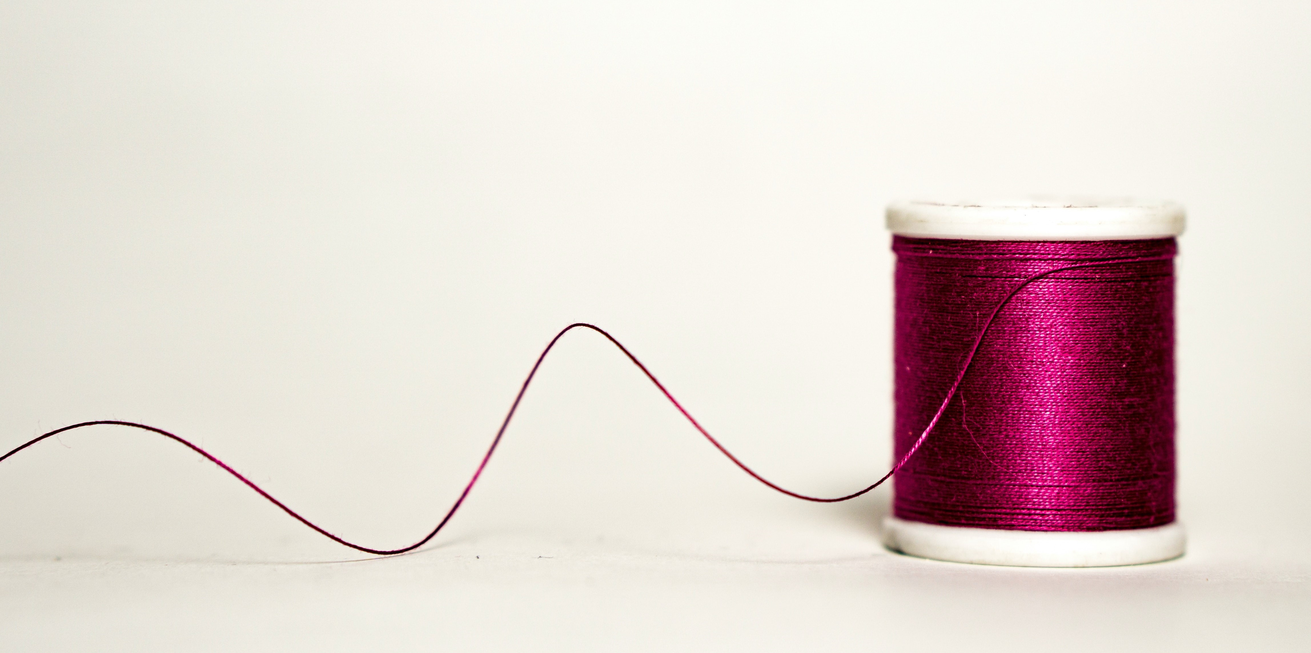
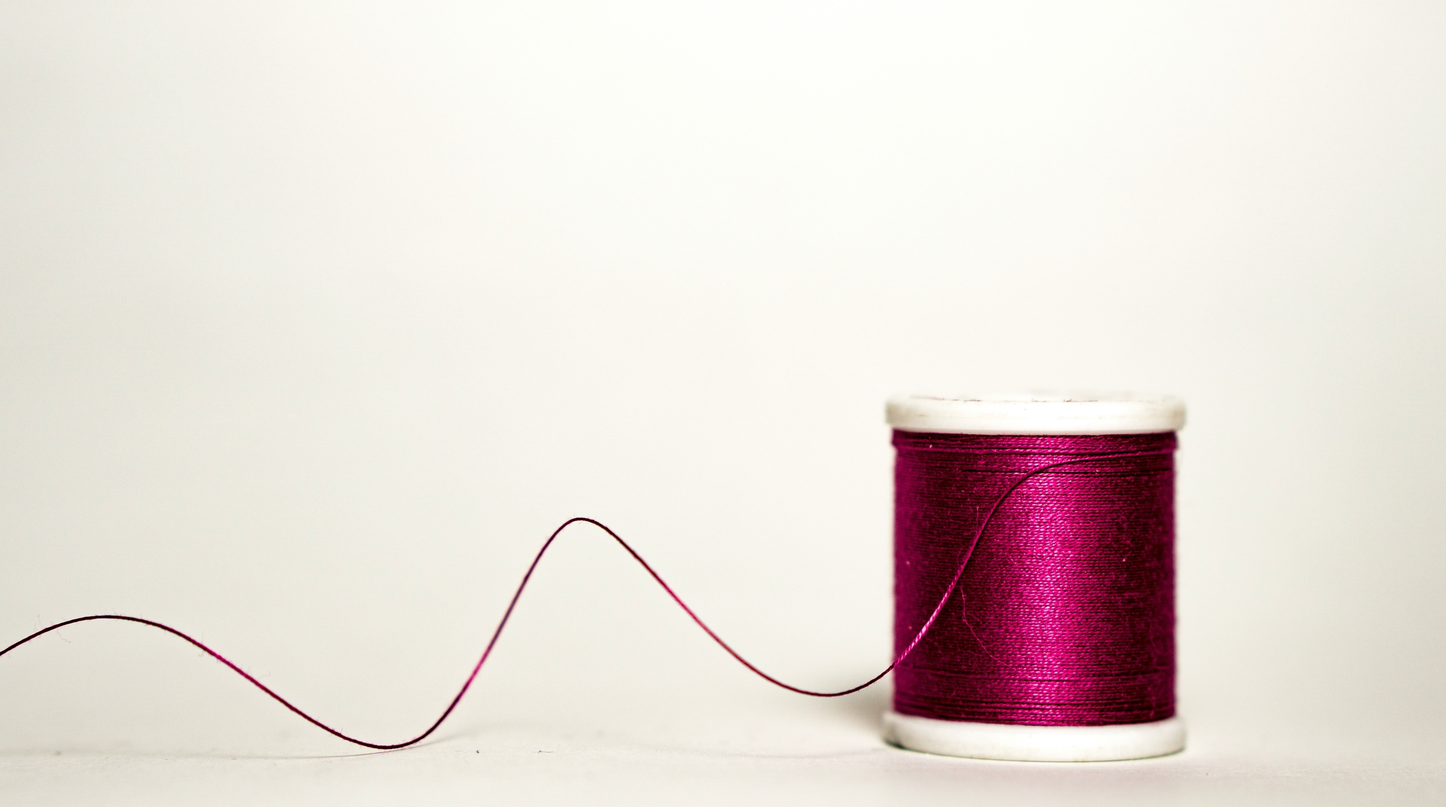
slider 2.5

diff --git a/tienda/tienda.html b/tienda/tienda.html
@@ -104,10 +104,10 @@
                                             <i class="bx bx-cart"></i>
                                             <div class="fly-item"><span class="item-number">0</span></div>
                                         </div>
-                                        <div class="icon-text">
+                                        <!--<div class="icon-text">
                                             <div class="mini-text">Total</div>
                                             <div class="cart-total">$0.00</div>
-                                        </div>
+                                        </div>-->
 
                                     </a></li>
                             </ul>
@@ -180,7 +180,7 @@
 
                                         <li class="has-child equipos">
                                             <a href="">
-                                                <div class="icon-large"><i class="ri-sofa-line"></i></div>
+                                                <div class="icon-large"><i class='bx bx-hdd'></i></div>
                                                 Equipos
                                                 <div class="icon-small"><i class='bx bx-chevron-right'></i></div>
                                             </a>
@@ -271,21 +271,7 @@
                     <div class="wrapper">
                         <div class="myslider swiper">
                             <div class="swiper-wrapper">
-                                <div class="swiper-slide">
-                                    <div class="item">
-
-                                        <div class="image object-cover">
-                                            <img src="img-tienda/slider2.5.jpg" alt="">
-                                        </div>
-                                        <div class="text-context flexcol">
-                                            <h4>Hilos AMLE</h4>
-                                            <h2><span>Hilos de calidad </span> <br> <span>con nuestros hilos</span></h2>
-                                            <a href="#" class="primary-button">Compra ahora</a>
-                                        </div>
-
-                                    </div>
-                                </div>
-
+                               
                                 <div class="swiper-slide">
                                     <div class="item">
 
@@ -293,29 +279,13 @@
                                             <img src="img-tienda/slider3.5.jpg" alt="">
                                         </div>
                                         <div class="text-context flexcol">
-                                            <h4>accesorios</h4>
-                                            <h2><span>Crea con confianza</span> <br> <span>con nuestros accesorios</span></h2>
+                                            <h2><span>Crea con confianza</span> <br> <span>con nuestros productos</span></h2> 
                                             <a href="#" class="primary-button">Compra ahora</a>
                                         </div>
 
-                                    </div>
-                                </div>
-
-                                <div class="swiper-slide">
-                                    <div class="item">
-
-                                        <div class="image object-cover">
-                                            <img src="img-tienda/slider4.jpg" alt="">
-                                        </div>
-                                        <div class="text-context flexcol">
-                                            <h4>Tijeras</h4>
-                                            <h2><span>Versatilidad y durabilidad </span> <br> <span>en cada corte</span></h2>
-                                            <a href="#" class="primary-button">Compra ahora</a>
-                                        </div>
                                     </div>
                                 </div>
                             </div>
-                            <div class="swiper-pagination"></div>
                         </div>
                     </div>
                 </div>

diff --git a/tienda/css/estilos-tienda.css b/tienda/css/estilos-tienda.css
@@ -181,16 +181,17 @@ h4 {
 }
 
 .primary-button {
-   font-size: var(--font-small);
-   padding: 0.9em 2em;
-   height: auto;
-   width: fit-content;
-   border-radius: 2em;
-   transition: var(--trans-background-color);
-   background-color: var(--primary-color);
-   color: var(--white-color);
-    
+    font-size: var(--font-small);
+    padding: 0.9em 2em;
+    height: auto;
+    width: fit-content;
+    border-radius: 2em;
+    transition: var(--trans-background-color);
+    background-color: var(--primary-color);
+    color: var(--white-color);
+
 }
+
 .primary-button:hover {
     background-color: #587a5c;
 }
@@ -350,6 +351,14 @@ nav .fly-item {
 
 .dpto-menu .has-child:hover ul {
     display: block;
+}
+
+.dpto-menu .partes ul,
+.maquinas ul,
+.prod ul,
+.Prendas ul,
+.equipos ul {
+    background-image: url(/tienda/img-tienda/bck-white..jpg);
 }
 
 .dpto-menu .has-child li a:hover {
@@ -536,11 +545,6 @@ form.search button:hover {
 
 
 /*slider*/
-.slider>div>.wrapper {
-    width: calc(100% - (300px + 2em));
-    margin-left: auto;
-    margin-right: 10px;
-}
 
 .slider .item {
     position: relative;
@@ -570,30 +574,16 @@ form.search button:hover {
     right: 250px;
 }
 
-.slider h4 {
-    font-size: var(--font-small);
-    font-weight: var(--fw7);
-    width: fit-content;
-    padding: 4px 30px;
-    background-color: var(--second-dark-color);
-    color: var(--white-color);
-    border-radius: 4px;
-}
-
-.text-context :where(h2,h3) span:first-child {
+.text-context :where(h2, h3) span:first-child {
     font-weight: var(--fw3);
     columns: var(--light-text-color);
 
 }
 
-.text-context :where(h2,h3) span:last-child {
- color: var(--second-dark-color);
- text-transform: uppercase;
- letter-spacing: -1px;
-}
-
-.swiper-pagination .swiper-pagination-bullet-active {
-    background-color: var(--second-dark-color);
+.text-context :where(h2, h3) span:last-child {
+    color: var(--second-dark-color);
+    text-transform: uppercase;
+    letter-spacing: -1px;
 }
 
 /*fin-slider*/
@@ -683,6 +673,64 @@ form.search button:hover {
     .header-top {
         display: none;
     }
+
+    /*texto del slider*/
+    .slider .text-context {
+        position: relative;
+        height: var(--porcentaje100);
+        /*justify-content: flex-end;*/
+        padding: 0 0 10% 36%;
+        z-index: 1;
+        top: -350px;
+        right: 250px;
+        margin-left: 20px;
+    }
+
+    .text-context :where(h2, h3) span:first-child {
+        font-size: 20px;
+        font-weight: var(--fw3);
+        columns: var(--light-text-color);
+
+    }
+
+    .text-context :where(h2, h3) span:last-child {
+        color: var(--second-dark-color);
+        text-transform: uppercase;
+        letter-spacing: -1px;
+    }
 }
+
+/*para que se vea el texto del slider*/
+@media screen and (max-width: 655px) {
+
+    /*texto del slider*/
+    .slider .text-context {
+    top: -250px;
+    right: 170px;
+    }
+
+    .text-context :where(h2, h3) span:first-child {
+        font-size: 30px;
+        font-weight: var(--fw3);
+        columns: var(--light-text-color);
+    
+    }
+    
+    .text-context :where(h2, h3) span:last-child {
+        font-size: 50px;
+    }
+
+    .text-context .primary-button {
+        display: none;
+    }
+}
+
+@media screen and (max-width: 416px) {
+
+    .slider .text-context {
+       display: none;
+        }
+}
+
 
 /*fin*/

diff --git a/tienda/js/script-tienda.js b/tienda/js/script-tienda.js
@@ -48,13 +48,3 @@ function toggle(e) {
     if (this.closest('.has-child').classList != 'expand');
     this.closest('.has-child').classList.toggle('expand');
 }
-
-//slider
-const swiper = new Swiper('.swiper', {
-    
-    loop: true,
-    pagination: {
-      el: '.swiper-pagination',
-    },
-  
-  });
